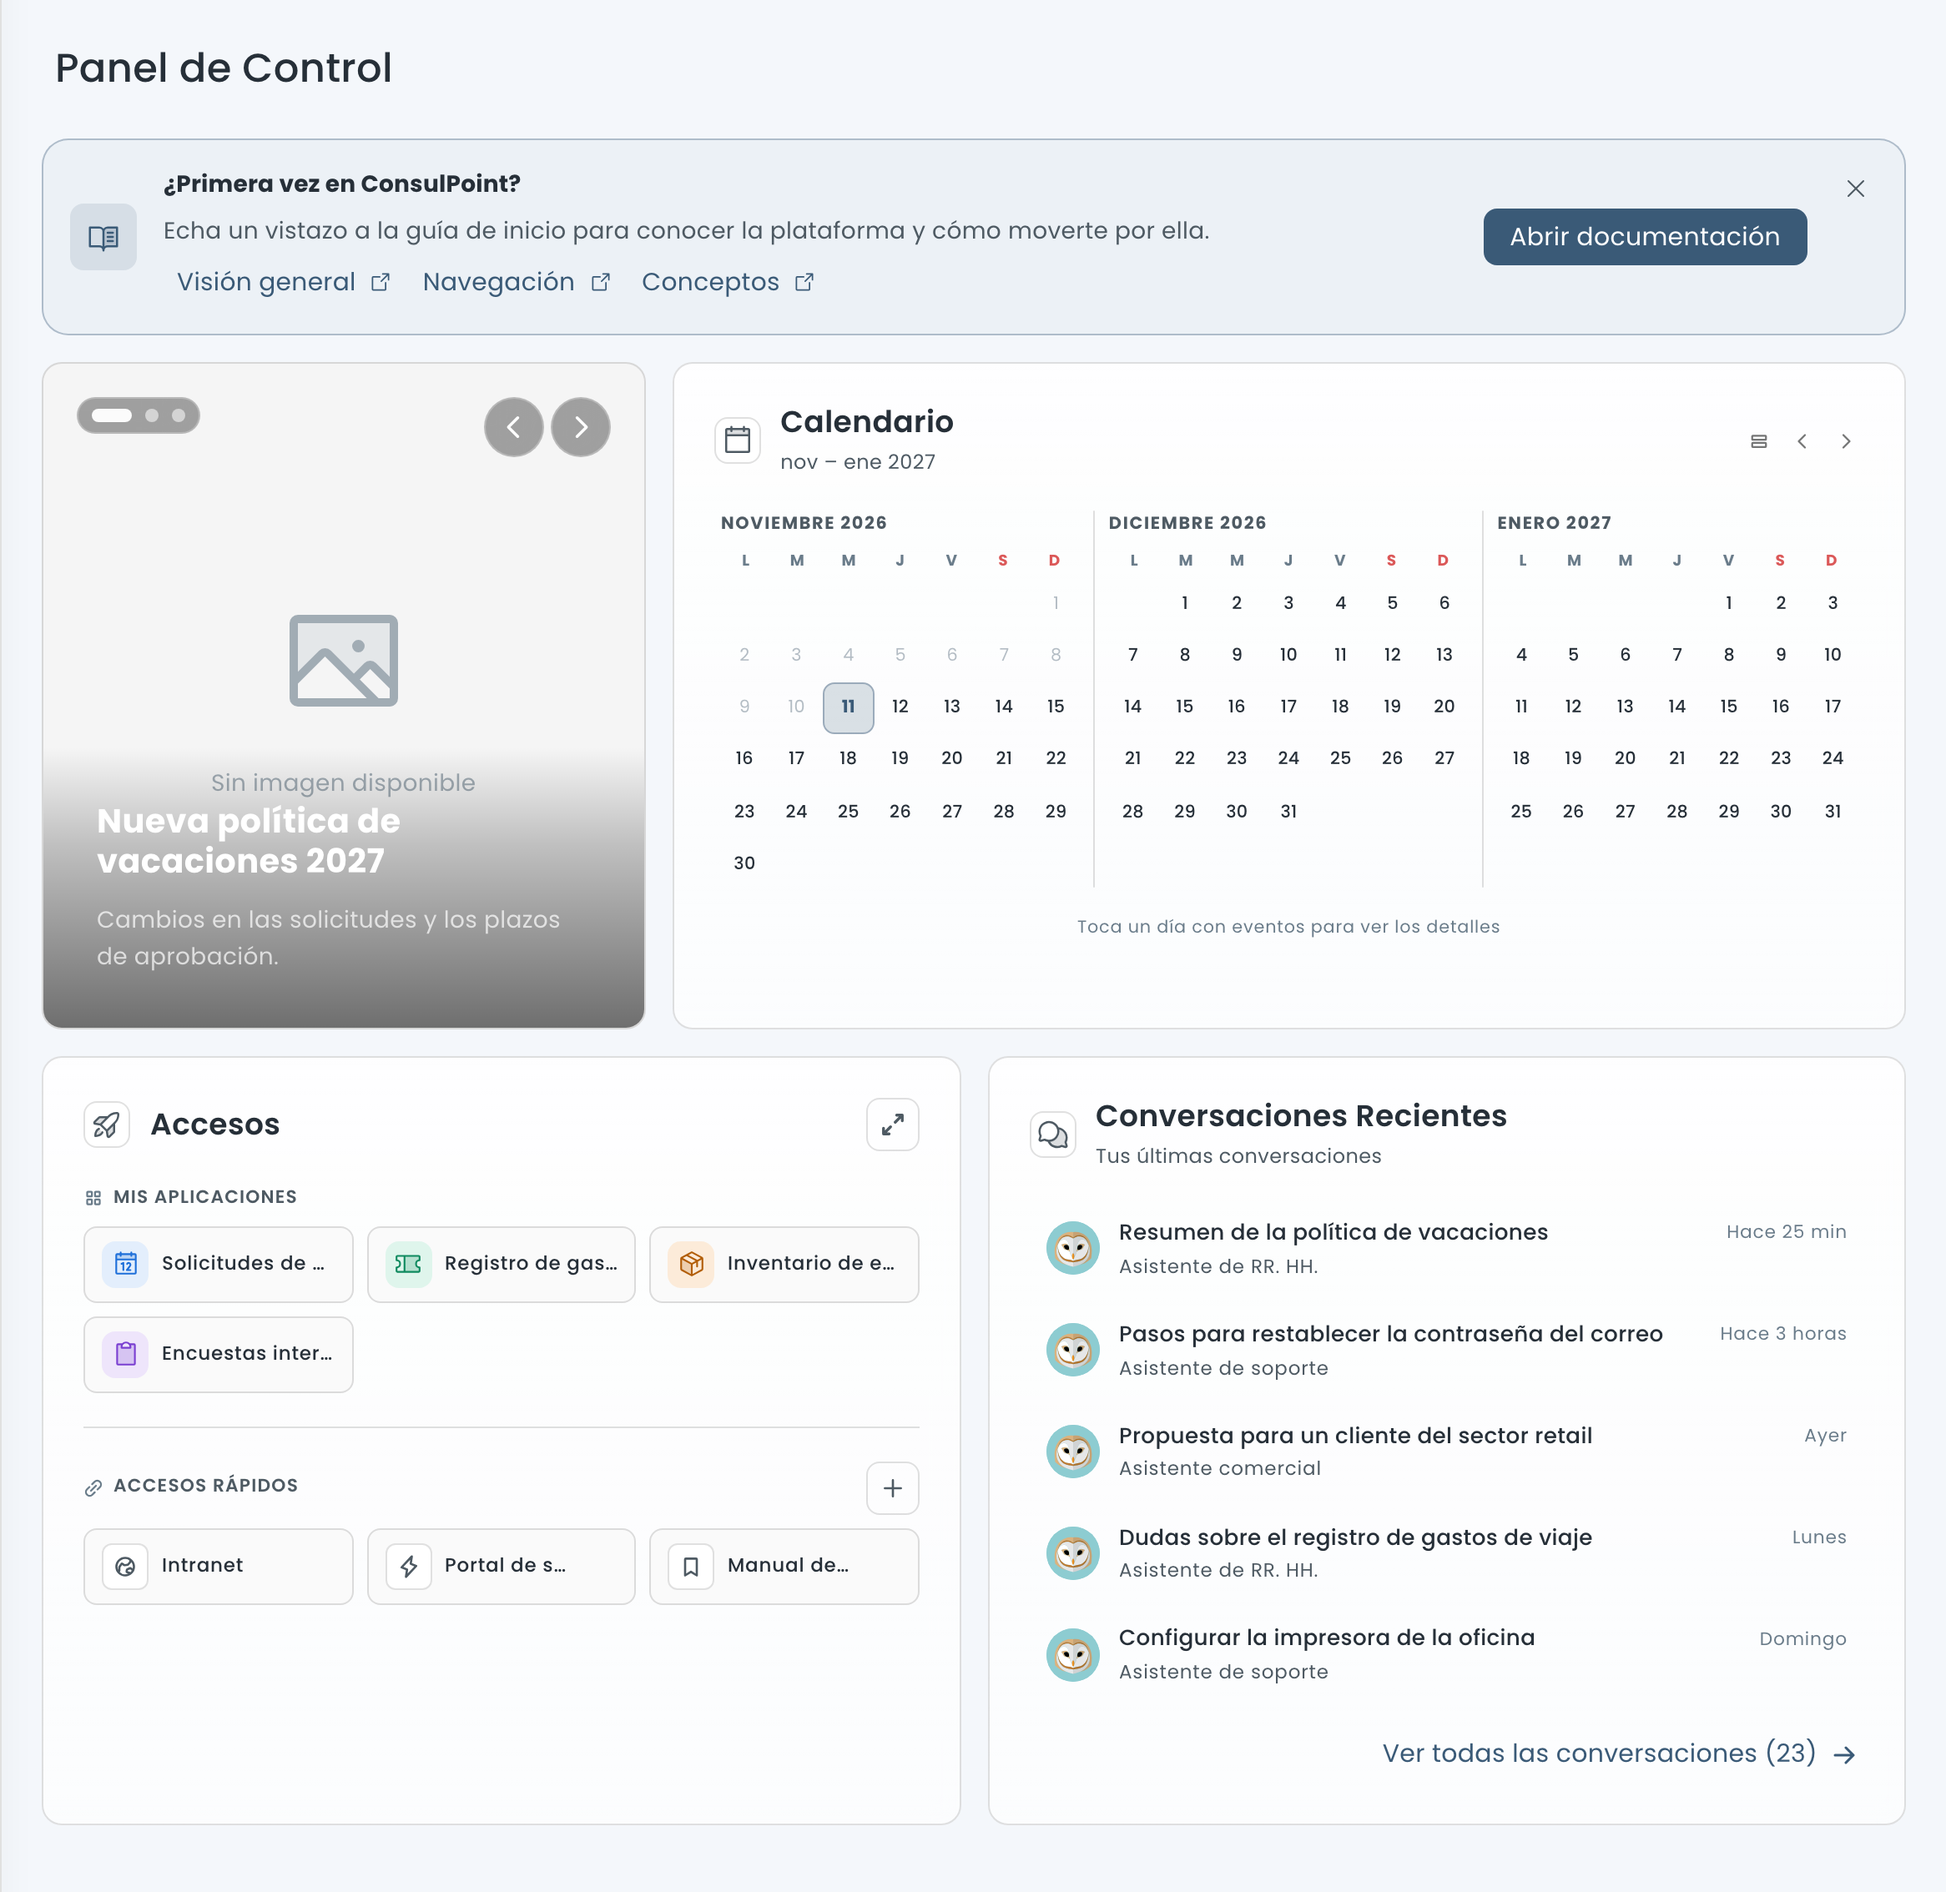
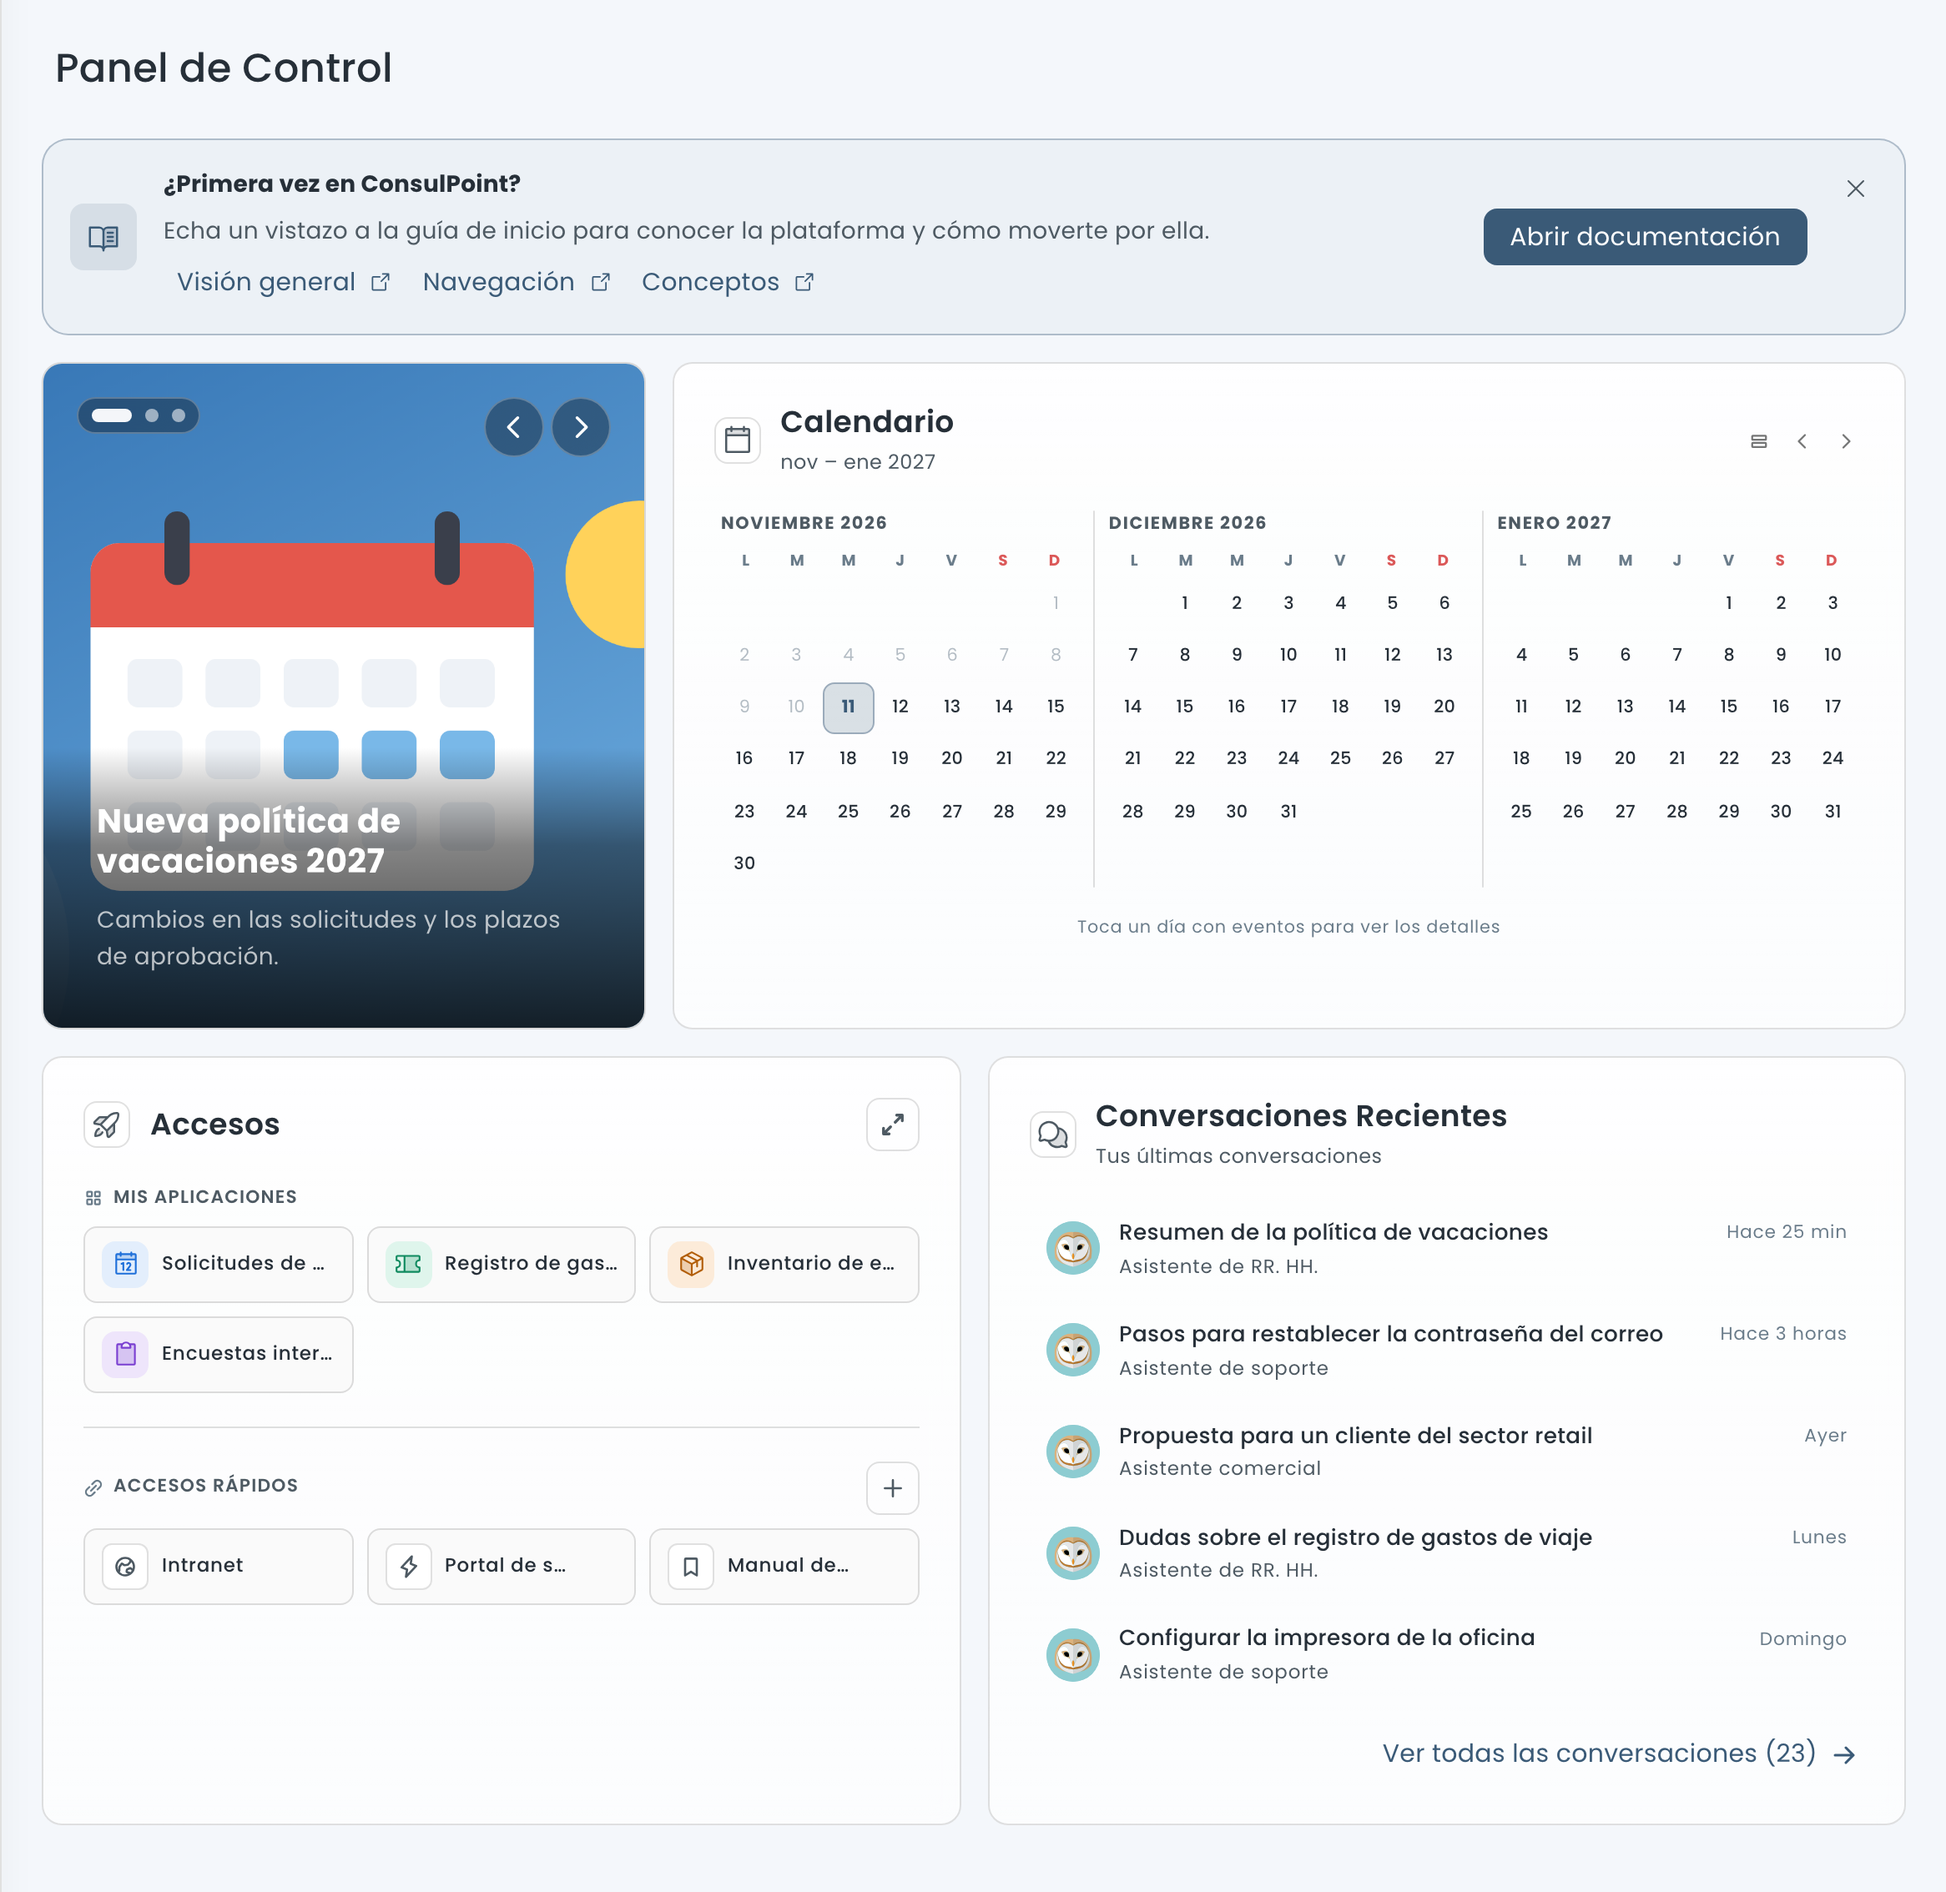
docs: amplía la página Artículos y novedades
Explica quién puede hacer qué, cómo leer, publicar, editar y eliminar artículos, el editor de contenido y cómo aparecen en Inicio y en los espacios de trabajo. Añade dos capturas y renueva la de Inicio con artículos con imagen.

Changed region(s): [[0.0, 0.1852, 0.3396, 0.5556]]

diff --git a/docs/modulos/articulos-y-novedades.md b/docs/modulos/articulos-y-novedades.md
@@ -1,0 +1,87 @@
+---
+id: articulos-y-novedades
+title: Artículos y novedades
+sidebar_label: Artículos y novedades
+sidebar_position: 2
+description: Cómo publicar, leer, editar y eliminar artículos y novedades internas en ConsulPoint, y cómo aparecen en Inicio.
+---
+
+# Artículos y novedades
+
+**Ruta:** `/resources`
+**Permiso requerido:** el que corresponda sobre **Artículos y novedades**
+
+## Descripción
+
+Un espacio para publicar comunicados, novedades y artículos para toda la organización: una nueva política, el calendario de formación, un anuncio del equipo. Los artículos más recientes aparecen también en el carrusel de [Inicio](/modulos/inicio).
+
+<Screenshot src="/img/articulos-y-novedades/articulos.png" alt="Lista de artículos en ConsulPoint" caption="Artículos y novedades" />
+
+## Quién puede hacer qué
+
+Con los roles predeterminados:
+
+| Rol | Puede |
+|---|---|
+| Administrador | Leer, publicar, editar y eliminar sus artículos |
+| Usuario | Leer, publicar y editar sus artículos. No eliminar |
+| Colaborador | Solo leer |
+
+Un artículo solo lo pueden editar o eliminar las personas que lo escribieron.
+
+## Leer los artículos
+
+La lista muestra primero el artículo más reciente, en grande, y después los demás en tarjetas con su imagen, título, descripción y fecha. **Buscar por nombre...** filtra por título dentro de la página que se está viendo.
+
+Al abrir un artículo se ven la imagen principal, el autor, la fecha (**Publicado el:**) y el contenido completo.
+
+## Publicar un artículo
+
+1. Pulsar **Crear una nueva entrada**.
+2. Completar los campos:
+
+   | Campo | Descripción |
+   |---|---|
+   | **Título** | Obligatorio, hasta 100 caracteres. No puede repetir el de otro artículo |
+   | **Descripción** | Opcional, hasta 80 caracteres. Es el resumen que se muestra en las tarjetas y en el carrusel de Inicio |
+   | **Banner principal del Post** | Opcional. Imagen JPG, PNG o GIF, hasta 5 MB. Se muestra en la tarjeta y en la cabecera del artículo |
+   | **Contenido** | Obligatorio, hasta 30.000 caracteres |
+
+3. Pulsar **Crear post**. El artículo se publica en ese momento y lo ven todas las personas con acceso.
+
+<Screenshot src="/img/articulos-y-novedades/crear-articulo.png" alt="Formulario para crear un artículo en ConsulPoint" caption="Crear un artículo" />
+
+:::info Se publica al instante
+No hay borradores ni programación: al crear el artículo queda publicado. Publicarlo tampoco envía avisos a las personas; si es importante, conviene comunicarlo por otro medio.
+:::
+
+### El editor de contenido
+
+El contenido admite títulos, negrita, cursiva, subrayado, tachado, listas, citas, código, enlaces, alineación de párrafos e imágenes. Las imágenes insertadas en el texto pueden ocupar hasta 1 MB cada una.
+
+## Editar y eliminar
+
+Desde el artículo abierto:
+
+- **Editar** abre el formulario con el contenido actual. **Actualizar Post** guarda los cambios. La imagen principal se puede cambiar, quitar o, antes de guardar, volver a la original.
+- **Eliminar** borra el artículo.
+
+:::danger Eliminación permanente
+Un artículo eliminado no se recupera.
+:::
+
+## En Inicio
+
+El carrusel **Artículo Destacado** de [Inicio](/modulos/inicio) muestra los 3 artículos más recientes, con su imagen, título y descripción. Al pulsar uno se abre completo.
+
+## En los espacios de trabajo
+
+Cada [espacio de trabajo](/modulos/espacios-de-trabajo) tiene sus propios artículos: los de la organización no aparecen dentro de un espacio, ni al revés. Las personas que solo pertenecen a un espacio, sin ser de la organización, pueden leer sus artículos pero no publicarlos.
+
+## Buenas prácticas
+
+:::tip Artículos que se leen
+- Un título claro y una descripción que diga en una frase de qué trata: es lo que se ve en Inicio.
+- Una imagen principal en formato apaisado, que se lea bien recortada en la tarjeta.
+- Para documentación que deben consultar los agentes, mejor el [Centro de Conocimiento](/modulos/centro-de-conocimiento): los agentes no leen los artículos.
+:::
